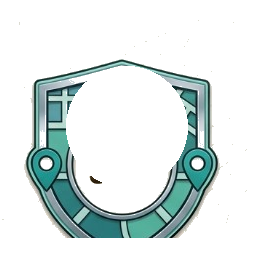
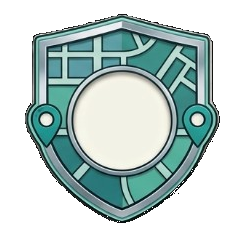
ART2-79: updated level badge visual bug and refined look of xp bar

diff --git a/roam_io/lib/features/you/widgets/stats_hero_row.dart b/roam_io/lib/features/you/widgets/stats_hero_row.dart
@@ -39,11 +39,11 @@ class StatsHeroStrip extends StatelessWidget {
     final xpBarLabel = level >= ProfileModel.maxLevel
         ? 'Max level'
         : '${formatCompactStatNumber(currentLevelXp)} / '
-            '${formatCompactStatNumber(nextLevelXp)} XP';
+              '${formatCompactStatNumber(nextLevelXp)} XP';
 
     return Container(
       width: double.infinity,
-      padding: const EdgeInsets.fromLTRB(12, 14, 16, 14),
+      padding: const EdgeInsets.fromLTRB(6, 14, 16, 14),
       decoration: BoxDecoration(
         color: AppSurfaces.card(context),
         borderRadius: BorderRadius.circular(18),
@@ -53,7 +53,7 @@ class StatsHeroStrip extends StatelessWidget {
         crossAxisAlignment: CrossAxisAlignment.center,
         children: [
           _LevelBadge(level: level, assetPath: rank.assetPath),
-          const SizedBox(width: 12),
+          const SizedBox(width: 8),
           Expanded(
             child: Column(
               crossAxisAlignment: CrossAxisAlignment.start,
@@ -65,7 +65,7 @@ class StatsHeroStrip extends StatelessWidget {
                   overflow: TextOverflow.ellipsis,
                   style: theme.textTheme.titleMedium?.copyWith(
                     color: AppSurfaces.textPrimary(context),
-                    fontWeight: FontWeight.w900,
+                    fontWeight: FontWeight.w800,
                     height: 1.1,
                   ),
                 ),
@@ -79,22 +79,22 @@ class StatsHeroStrip extends StatelessWidget {
                   children: [
                     Expanded(
                       child: Text(
-                        'Gained this week: +$xpThisWeek XP',
+                        'This week: +$xpThisWeek XP',
                         maxLines: 1,
                         overflow: TextOverflow.ellipsis,
                         style: theme.textTheme.labelMedium?.copyWith(
-                          color: AppSurfaces.textPrimary(context),
-                          fontWeight: FontWeight.w800,
+                          color: AppSurfaces.textMuted(context),
+                          fontWeight: FontWeight.w500,
                           height: 1.1,
                         ),
                       ),
                     ),
                     const SizedBox(width: 8),
                     Text(
-                      'Streak: ${streakDays}d 🔥',
+                      'Streak: ${streakDays}d',
                       style: theme.textTheme.labelMedium?.copyWith(
-                        color: AppSurfaces.textPrimary(context),
-                        fontWeight: FontWeight.w800,
+                        color: AppSurfaces.textMuted(context),
+                        fontWeight: FontWeight.w500,
                         height: 1.1,
                       ),
                     ),
@@ -110,10 +110,7 @@ class StatsHeroStrip extends StatelessWidget {
 }
 
 class _LevelBadge extends StatelessWidget {
-  const _LevelBadge({
-    required this.level,
-    required this.assetPath,
-  });
+  const _LevelBadge({required this.level, required this.assetPath});
 
   final int level;
   final String assetPath;
@@ -127,7 +124,23 @@ class _LevelBadge extends StatelessWidget {
       height: 72,
       child: Stack(
         alignment: Alignment.center,
+        clipBehavior: Clip.none,
         children: [
+          Container(
+            width: 52,
+            height: 52,
+            decoration: BoxDecoration(
+              shape: BoxShape.circle,
+              boxShadow: [
+                BoxShadow(
+                  color: Colors.black.withValues(alpha: 0.28),
+                  blurRadius: 12,
+                  spreadRadius: 1,
+                  offset: const Offset(0, 5),
+                ),
+              ],
+            ),
+          ),
           Image.asset(
             assetPath,
             width: 72,
@@ -151,10 +164,7 @@ class _LevelBadge extends StatelessWidget {
 }
 
 class _XpProgressBar extends StatelessWidget {
-  const _XpProgressBar({
-    required this.progress,
-    required this.label,
-  });
+  const _XpProgressBar({required this.progress, required this.label});
 
   final double progress;
   final String label;
@@ -162,13 +172,24 @@ class _XpProgressBar extends StatelessWidget {
   @override
   Widget build(BuildContext context) {
     final theme = Theme.of(context);
-    final fill = const Color(0xFF2F5D3A);
+    final fill = const Color.fromARGB(255, 73, 134, 87);
     final track = AppSurfaces.isDark(context)
         ? const Color(0xFF2A2F38)
         : const Color(0xFFD8D8D8);
 
-    return SizedBox(
+    return Container(
       height: 22,
+      decoration: BoxDecoration(
+        borderRadius: BorderRadius.circular(999),
+        boxShadow: [
+          BoxShadow(
+            color: Colors.black.withValues(alpha: 0.18),
+            blurRadius: 8,
+            spreadRadius: 0,
+            offset: const Offset(0, 3),
+          ),
+        ],
+      ),
       child: ClipRRect(
         borderRadius: BorderRadius.circular(999),
         child: Stack(
